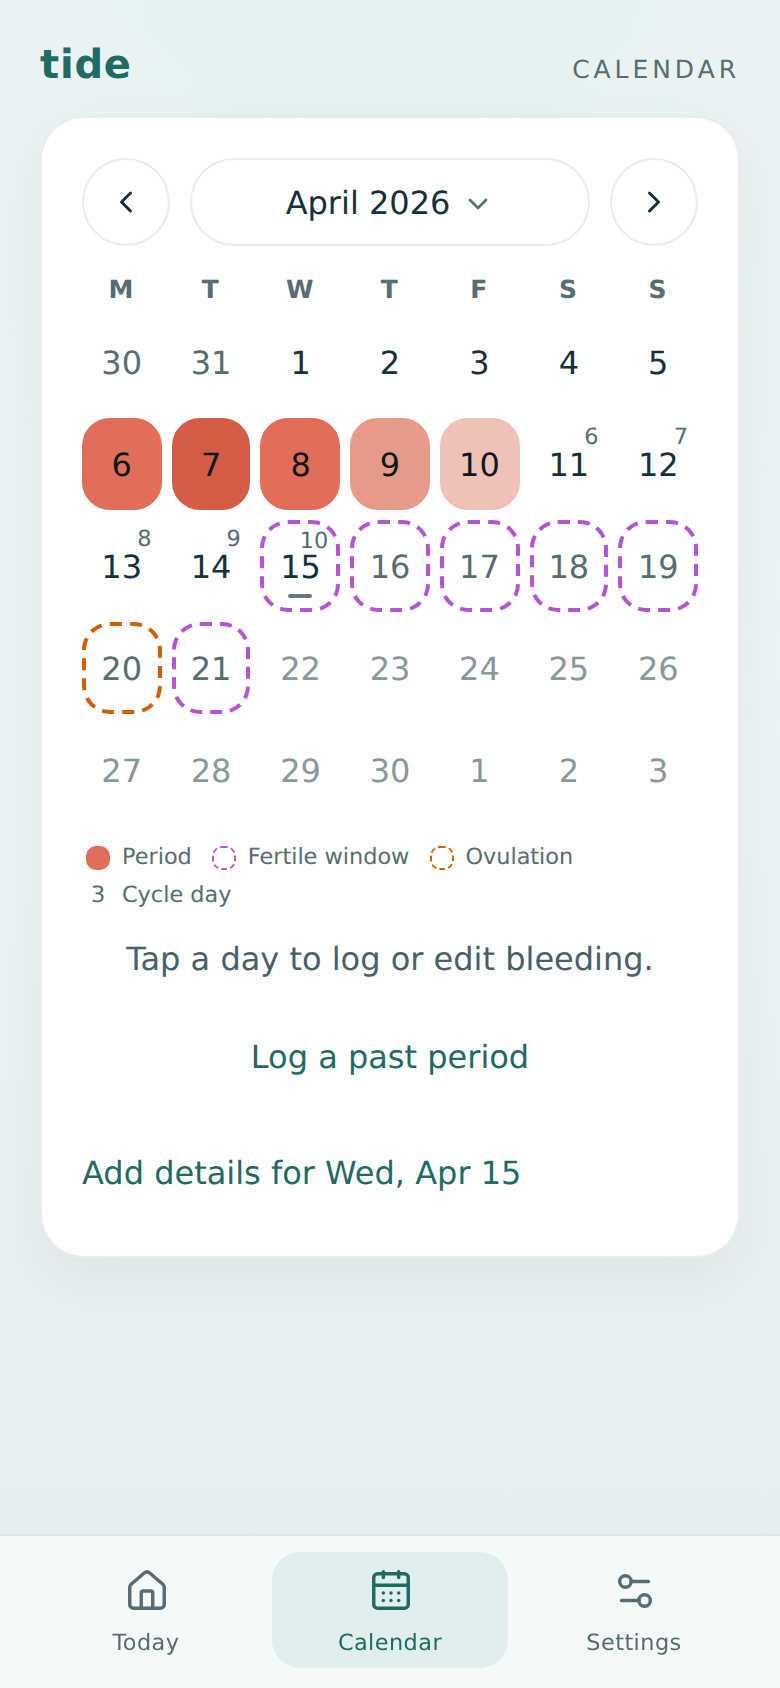
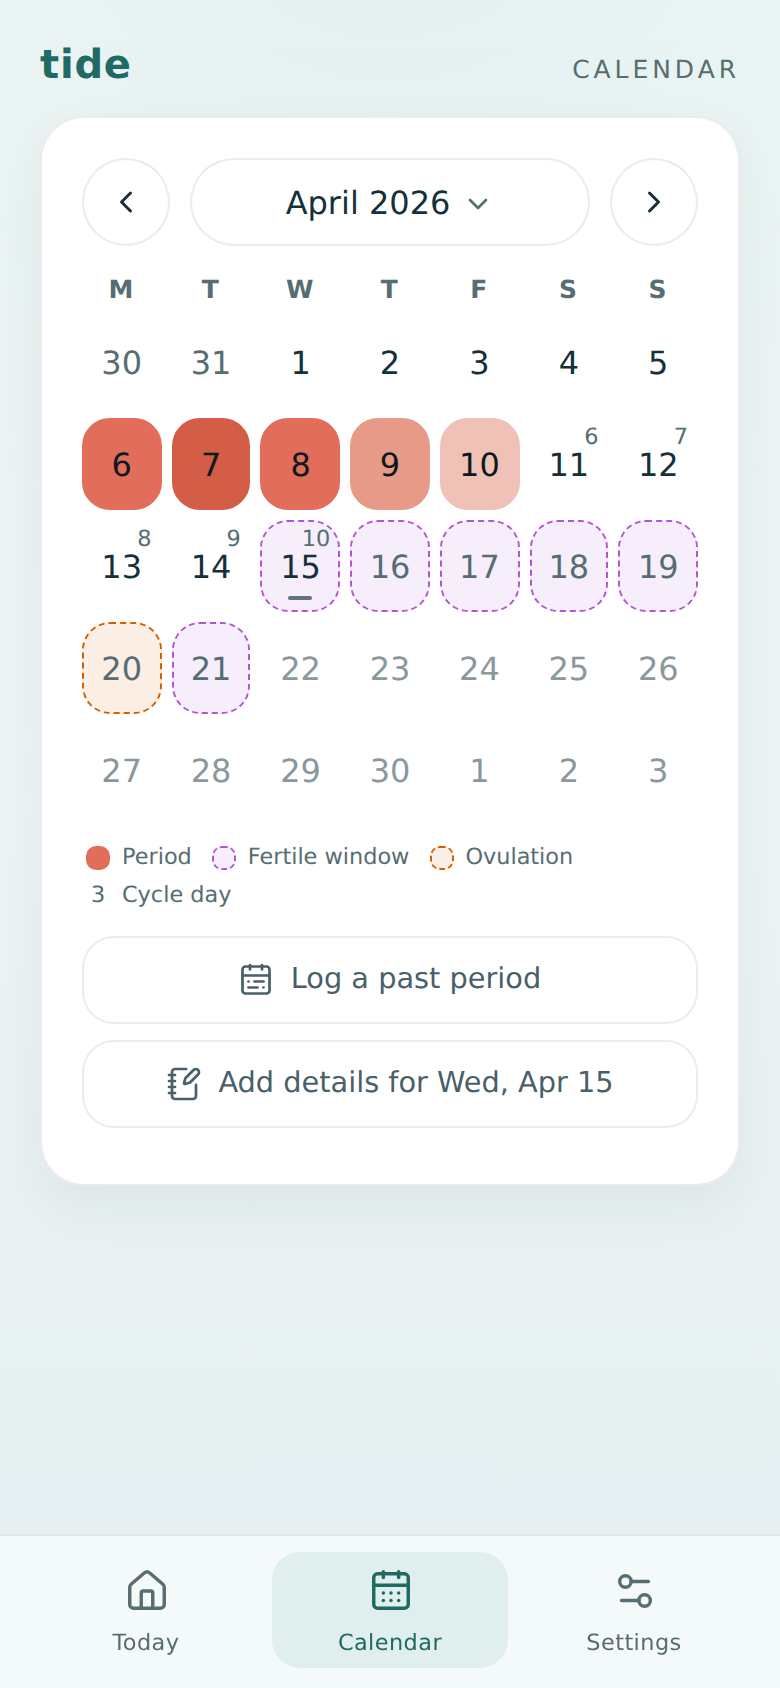
feat(calendar): one action group and lighter estimate days
- Estimated days use a 1.5 px dash and, in light mode, a 10% wash of their colour (--estimate-tint), so the fertile window reads as one band. Dark mode has no wash: amber over the dark ground turns brown.
- "Log a past period" and the day's details are two quiet buttons in one .calendar__actions group, with icons, instead of three stacked text lines.
- The "Tap a day to log or edit bleeding" hint shows only until the first log; the empty-state and future-month hints stay.

diff --git a/src/styles/screens.css b/src/styles/screens.css
@@ -324,16 +324,63 @@
     hyphens: manual;
   }
 
-  .calendar__today,
-  .calendar__range {
+  .calendar__today {
     width: fit-content;
     max-width: 100%;
     justify-self: center;
   }
 
-  /* A text action standing alone, so it takes a full 44px touch target. */
-  .calendar__range {
+  /* The two things to do besides tapping a day, side by side: log a range,
+     and details for the picked day. They stack when the line is too narrow.
+     The details panel and history inside the row take a whole line. */
+  .calendar__actions {
+    display: flex;
+    flex-wrap: wrap;
+    gap: 8px;
+  }
+
+  .calendar__actions .daily-details {
+    display: contents;
+  }
+
+  .calendar__actions .daily-details > :not(button) {
+    flex: 1 0 100%;
+  }
+
+  .calendar__action {
+    display: inline-flex;
+    flex: 1 1 auto;
+    align-items: center;
+    justify-content: center;
+    gap: 8px;
     min-height: 44px;
+    padding: 0 16px;
+    border: 1px solid var(--surface-border);
+    border-radius: var(--radius-button);
+    background: var(--surface);
+    color: var(--ink-soft);
+    font-size: var(--text-md);
+    font-weight: 500;
+    transition:
+      background-color 160ms ease,
+      border-color 160ms ease,
+      color 160ms ease;
+  }
+
+  .calendar__action:hover:not(:disabled),
+  .calendar__action[aria-expanded="true"] {
+    border-color: var(--tide);
+    background: var(--tide-tint);
+    color: var(--tide-strong);
+  }
+
+  .calendar__action:focus-visible {
+    outline: 2px solid var(--tide);
+    outline-offset: 2px;
+  }
+
+  .calendar__action:disabled {
+    cursor: default;
   }
 
   .calendar__picker {
@@ -401,16 +448,17 @@
   .calendar-legend__swatch--predicted,
   .calendar-legend__swatch--fertile,
   .calendar-legend__swatch--ovulation {
-    background: transparent;
-    border: 1.5px dashed var(--estimate-period);
+    --estimate: var(--estimate-period);
+    background: color-mix(in srgb, var(--estimate) var(--estimate-tint), transparent);
+    border: 1.5px dashed var(--estimate);
   }
 
   .calendar-legend__swatch--fertile {
-    border-color: var(--estimate-fertile);
+    --estimate: var(--estimate-fertile);
   }
 
   .calendar-legend__swatch--ovulation {
-    border-color: var(--estimate-ovulation);
+    --estimate: var(--estimate-ovulation);
   }
 
   .calendar-grid__weekday-narrow {

diff --git a/src/features/calendar/CalendarScreen.tsx b/src/features/calendar/CalendarScreen.tsx
@@ -1,4 +1,4 @@
-import { ChevronDown, ChevronLeft, ChevronRight } from "lucide-react";
+import { CalendarRange, ChevronDown, ChevronLeft, ChevronRight } from "lucide-react";
 import { type KeyboardEvent, type TouchEvent, useEffect, useRef, useState } from "react";
 import { MAX_PERIOD_RANGE_DAYS } from "../../domain/flow";
 import type { IsoDate } from "../../domain/types";
@@ -208,19 +208,10 @@ export function CalendarScreen(props: CalendarScreenProps) {
               {t("calendar.undo")}
             </button>
           </p>
-        ) : (
+        ) : helpKey === "calendar.tapHelp" ? null : (
+          // Once something is logged, tapping a day is known; only first use
+          // and future months need the hint.
           <p className="supporting-note calendar__help">{t(helpKey)}</p>
-        )}
-        {log.selectedDay ? null : (
-          // One button that turns into Cancel, so focus stays put when a
-          // pick is cancelled.
-          <button
-            type="button"
-            className="text-action calendar__range"
-            onClick={log.rangePick ? log.cancelRangePick : handleStartRange}
-          >
-            {t(log.rangePick ? "common.cancel" : "calendar.logRange")}
-          </button>
         )}
         {month.isCurrent ? null : (
           <button
@@ -232,7 +223,21 @@ export function CalendarScreen(props: CalendarScreenProps) {
             {t("calendar.today")}
           </button>
         )}
-        <DailyDetails today={today} day={detailsDay} month={month.visibleMonth} />
+        <div className="calendar__actions">
+          {log.selectedDay ? null : (
+            // One button that turns into Cancel, so focus stays put when a
+            // pick is cancelled.
+            <button
+              type="button"
+              className="calendar__action"
+              onClick={log.rangePick ? log.cancelRangePick : handleStartRange}
+            >
+              {log.rangePick ? null : <CalendarRange aria-hidden="true" size={18} strokeWidth={1.8} />}
+              {t(log.rangePick ? "common.cancel" : "calendar.logRange")}
+            </button>
+          )}
+          <DailyDetails today={today} day={detailsDay} month={month.visibleMonth} />
+        </div>
       </article>
     </section>
   );

diff --git a/src/features/diary/DailyDetails.tsx b/src/features/diary/DailyDetails.tsx
@@ -1,3 +1,4 @@
+import { NotebookPen } from "lucide-react";
 import { useEffect, useId, useRef, useState } from "react";
 import { isIsoDate } from "../../data/schema";
 import { type DailyDetails as Details, MAX_NOTE_LENGTH, MOODS, SYMPTOMS } from "../../domain/diary";
@@ -36,7 +37,7 @@ export function DailyDetails({ today, day: target, month }: { today: IsoDate; da
       <button
         ref={trigger}
         type="button"
-        className="text-action daily-details__trigger"
+        className={target ? "calendar__action daily-details__trigger" : "text-action daily-details__trigger"}
         disabled={open}
         aria-expanded={open}
         aria-controls={id}
@@ -45,6 +46,7 @@ export function DailyDetails({ today, day: target, month }: { today: IsoDate; da
           setOpen(true);
         }}
       >
+        {target ? <NotebookPen aria-hidden="true" size={18} strokeWidth={1.8} /> : null}
         {target
           ? t(state.detailsByDay[target] ? "diary.editDetailsFor" : "diary.addDetailsFor", {
               date: formatShortDate(target, locale),

diff --git a/tests/ui/calendar-screen.test.tsx b/tests/ui/calendar-screen.test.tsx
@@ -35,6 +35,17 @@ describe("CalendarScreen", () => {
     expect(screen.getByRole("button", { name: /april 2026/i })).toBeInTheDocument();
   });
 
+  it("drops the tap hint once something is logged, and keeps both actions on one row", () => {
+    const { container } = renderWithAppState(<CalendarScreen today="2026-04-18" />, {
+      state: createAppState({ periodDays: ["2026-04-02"] }),
+    });
+
+    expect(screen.queryByText(/tap a day to log or edit bleeding/i)).not.toBeInTheDocument();
+    const row = container.querySelector(".calendar__actions");
+    expect(row).toContainElement(screen.getByRole("button", { name: /log a past period/i }));
+    expect(row).toContainElement(screen.getByRole("button", { name: /add details for/i }));
+  });
+
   it("lays the month out as a table with a weekday header per column", () => {
     renderWithAppState(<CalendarScreen today="2026-04-18" />);
 

diff --git a/src/styles/ui.css b/src/styles/ui.css
@@ -1205,17 +1205,20 @@
   .calendar-grid__day.is-fertile,
   .calendar-grid__day.is-ovulation,
   .calendar-grid__day.is-predicted-period {
-    background: transparent;
-    border: 2px dashed var(--estimate-fertile);
+    --estimate: var(--estimate-fertile);
+    /* A faint wash groups the window into a band; the fine dash keeps it an
+       estimate, never a logged day's solid fill. */
+    background: color-mix(in srgb, var(--estimate) var(--estimate-tint), transparent);
+    border: 1.5px dashed var(--estimate);
     opacity: 1;
   }
 
   .calendar-grid__day.is-ovulation {
-    border-color: var(--estimate-ovulation);
+    --estimate: var(--estimate-ovulation);
   }
 
   .calendar-grid__day.is-predicted-period {
-    border-color: var(--estimate-period);
+    --estimate: var(--estimate-period);
   }
 
   .calendar-grid__day.is-logged {

diff --git a/src/styles/tokens.css b/src/styles/tokens.css
@@ -49,6 +49,8 @@
        yellow that dark turns brown, so the fertile window is violet. */
     --estimate-period: var(--bleed-strong);
     --estimate-fertile: #b454d4;
+    /* How much of an estimate's colour washes its calendar day. */
+    --estimate-tint: 10%;
     --estimate-ovulation: #d45d00;
     /* Text on the warm cycle fills — they stay light in both themes, so this
        stays near-black in both themes (not overridden in the dark block) to
@@ -134,6 +136,8 @@
     --cycle-idle: rgba(194, 238, 234, 0.3);
     /* On the dark ground the fills themselves are bright enough for a line. */
     --estimate-period: var(--bleed);
+    /* No wash at night: amber over the dark ground turns brown. */
+    --estimate-tint: 0%;
     --estimate-fertile: var(--cycle-fertile);
     --estimate-ovulation: var(--cycle-ovulation);
 

diff --git a/tests/e2e/viewport.spec.ts b/tests/e2e/viewport.spec.ts
@@ -109,7 +109,7 @@ const SCREENS: {
   {
     name: "calendar past period",
     path: "/calendar",
-    open: (page) => page.locator(".calendar__range").click(),
+    open: (page) => page.locator(".calendar__actions > .calendar__action").click(),
   },
   { name: "settings", path: "/settings" },
   {

diff --git a/DESIGN.md b/DESIGN.md
@@ -198,9 +198,11 @@ first. Dark mode is the same pool at night, tuned again rather than inverted.
 **The One Warm Voice Rule.** Coral means bleeding. Never use it for a button, badge or
 accent that isn't about the period.
 
-**The Outline Rule.** Every estimate is a dashed outline in its colour, with no fill: the
-expected period, the fertile window and ovulation, on the dial, the calendar and both
-legends, in both themes. Only logged days get a fill. The outline is the whole encoding:
+**The Outline Rule.** Every estimate is a dashed outline in its colour, never a solid fill:
+the expected period, the fertile window and ovulation, on the dial, the calendar and both
+legends, in both themes. Only logged days get a fill. On the light calendar an estimated
+day also takes a 10% wash of its colour (`--estimate-tint`), so a window reads as one band;
+dark mode has none, because amber over the dark ground turns brown. The outline is the whole encoding:
 an estimated day's number keeps its ordinary colour, so the expected period looks no more
 certain than the fertile window. Each outline passes 3:1 against the card and the page
 ground.
@@ -298,7 +300,7 @@ Everything is rounded, every radius is a token, and bigger blocks get bigger cor
 The dial is a circle. A calendar day with nothing on it is a bare number; only logged,
 estimated and selected days get a rounded square. A day that has happened shows its
 cycle-day number small and muted inside the top corner, with no bubble, so it never reads as
-an unread count. An estimated day gets a 2 px dashed outline with no fill. Borders are 1 px hairlines at 9% ink.
+an unread count. An estimated day gets a 1.5 px dashed outline and, in light mode, a faint wash. Borders are 1 px hairlines at 9% ink.
 
 ## Components
 
@@ -364,14 +366,16 @@ names the colours the ring is actually showing.
 ### Calendar grid
 
 Seven columns of rounded-square day buttons. Logged days fill with their flow-ramp colour.
-Expected, fertile and ovulation days are dashed outlines in coral, violet and amber, with no
-fill. Logged days from the next or previous month keep a lighter fill. Their estimates keep
+Expected, fertile and ovulation days are fine dashed outlines in coral, violet and amber,
+washed at 10% in light mode. Logged days from the next or previous month keep a lighter fill. Their estimates keep
 the full outline, because a lighter one would drop below 3:1. Today gets a short underscore
 in `currentColor`, and the selected day a teal ring. A newly logged day pulses once, unless
 the user asked for reduced motion. The grid is one tab stop, and you move through it with
 the arrow keys. Logging a past period uses the same grid: the first day you pick keeps the
 selection ring until you pick the last day, and a status line under the grid says what
-comes next.
+comes next. Under the legend, "Log a past period" and the picked day's details are two
+quiet buttons in one group, side by side when they fit. The "Tap a day" hint shows only
+until the first log, and for future months.
 
 ### Backup reminder
 

diff --git a/CHANGELOG.md b/CHANGELOG.md
@@ -61,6 +61,10 @@ adheres to [Semantic Versioning](https://semver.org/spec/v2.0.0.html).
   number sits small inside the day's corner instead of in a bubble, with its own legend entry.
 - The fertile window is violet instead of olive, and ovulation a brighter orange, on the
   dial and the calendar, so the two no longer look alike or brown.
+- Estimated calendar days use a finer dash and, in light mode, a faint wash of their
+  colour, so the fertile window reads as one band instead of a row of boxes.
+- Under the calendar, "Log a past period" and the day's details are two buttons in one
+  group, and the "Tap a day" hint shows only until your first log.
 - "Add details" on the calendar names its day, and adds details for the day you last picked.
 - The privacy statement names Cloudflare as the host without naming the product,
   since the app moves from Cloudflare Pages to a Cloudflare Worker.
